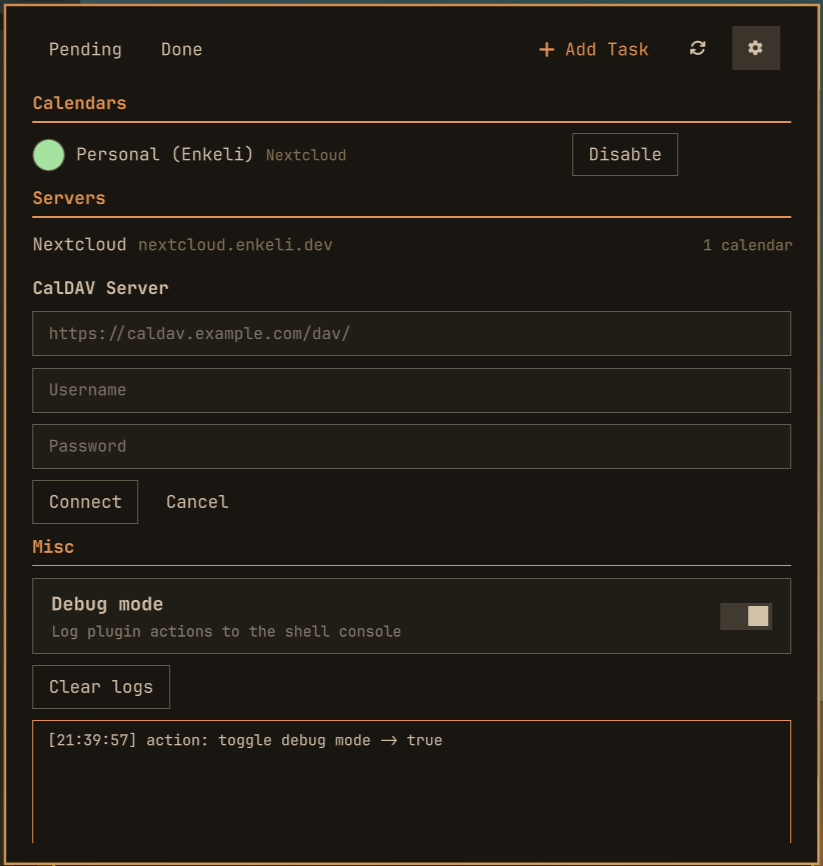
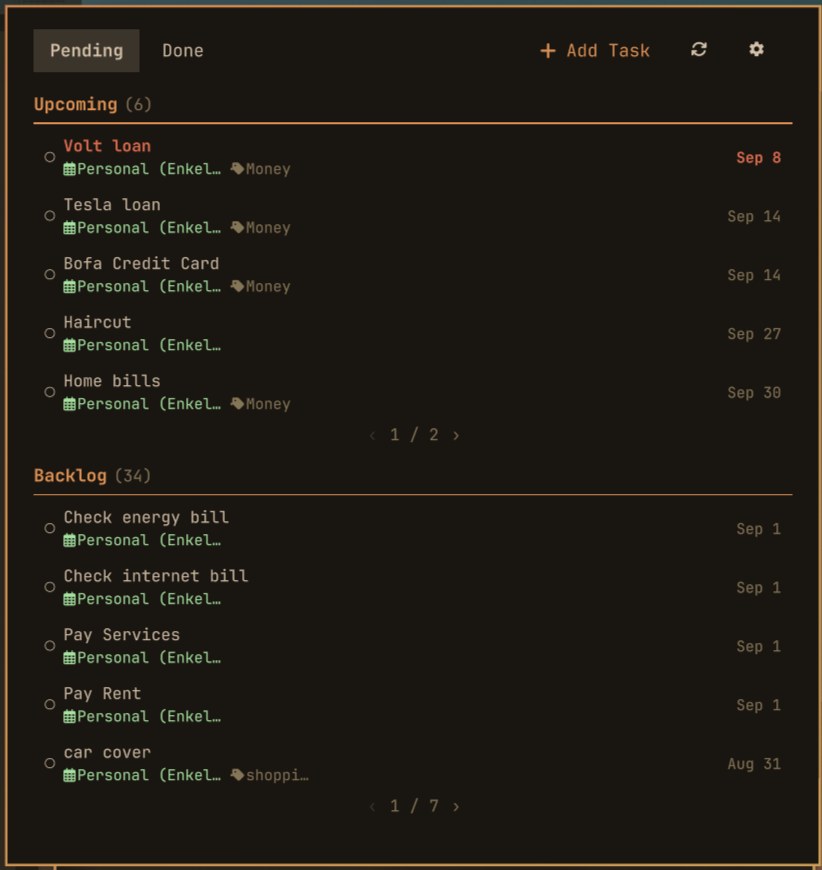
use pending tasks screenshot as the marketplace preview
preview_2.png becomes preview.png; restore preview_1.png.

diff --git a/README.md b/README.md
@@ -6,8 +6,8 @@ A task widget for the Omarchy shell. Sync with Nextcloud Tasks and manage your t
 
 | Browse pending tasks | Completed tasks |
 | :---: | :---: |
-| <img src="preview_2.png" width="400" alt="Pending tasks grouped into Upcoming and Backlog sections with total counts and pagination"> | <img src="preview_4.png" width="400" alt="Completed tasks shown struck-through with completion dates and pagination"> |
-| <img src="preview_3.png" width="400" alt="New Task form with calendar, summary, description, due date, and category fields"> | <img src="preview.png" width="400" alt="Settings screen with calendar rows, CalDAV server connect form, and debug log console"> |
+| <img src="preview.png" width="400" alt="Pending tasks grouped into Upcoming and Backlog sections with total counts and pagination"> | <img src="preview_4.png" width="400" alt="Completed tasks shown struck-through with completion dates and pagination"> |
+| <img src="preview_3.png" width="400" alt="New Task form with calendar, summary, description, due date, and category fields"> | <img src="preview_1.png" width="400" alt="Settings screen with calendar rows, CalDAV server connect form, and debug log console"> |
 
 ## Install
 
